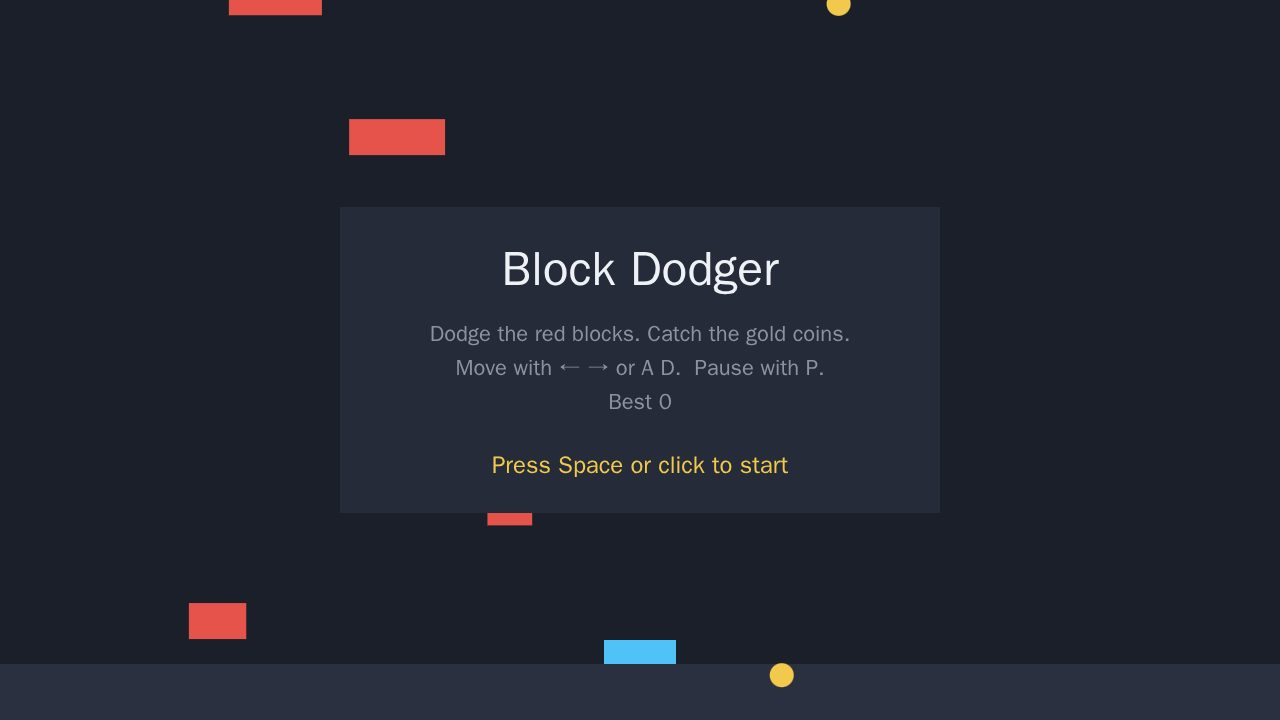
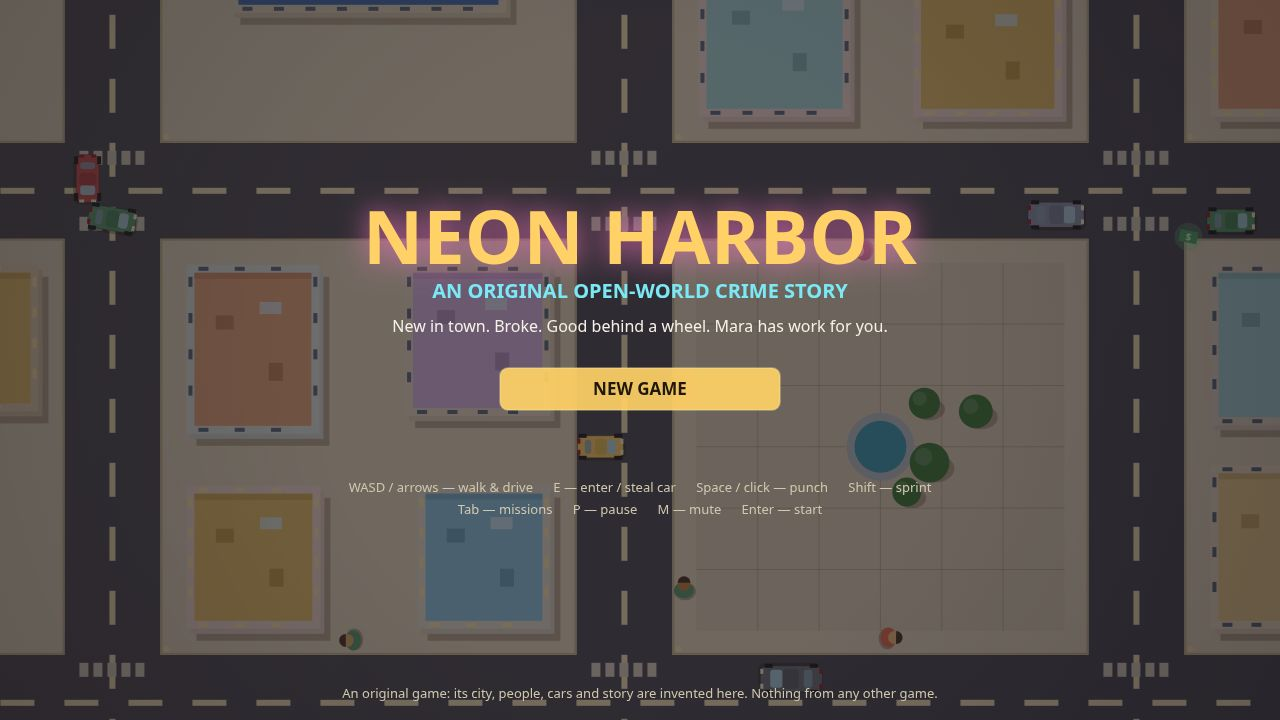
Neon Harbor: real screenshots, entrypoint header, README
Four JPEGs rendered by headless Chrome from real play and staged scenes
(title, driving, police chase, warehouse fight); shots.json queries;
main.ts header describes the game; README from the bounty template.

diff --git a/main.ts b/main.ts
@@ -1,12 +1,15 @@
-// A working gta6-01 entry (Node 22, standard library only): the game is this directory's
-// game/ folder, plain static files a desktop browser loads offline (game/index.html and its ES
-// modules, no library and no network request), and the program hands it in. It copies game/ and
-// screenshots/ from beside this file to /output and writes /output/dossier.json, the summary the
-// judge reads, with the vendored make.fun library. Only the plumbing, not an open world: Block
-// Dodger, a plain 2D canvas game where a paddle dodges falling blocks and catches coins, with a
-// title screen, score, lives and levels, game over and restart, flat colours and no sound. Build
-// your own open-world crime game in its place (three.js or any library you vendor under game/),
-// put your 3 or 4 PNG or JPEG screenshots in screenshots/ (the first by name is the cover) and run it.
+// Neon Harbor: an original open-world crime game for the make.fun "Make GTA 6"
+// bounty (Node 22, standard library only). The game is this directory's game/
+// folder, plain static files a desktop browser loads offline (game/index.html
+// and its ES modules, no library and no network request), and this program
+// hands it in. It copies game/ and screenshots/ from beside this file to
+// /output and writes /output/dossier.json, the summary the judge reads, with
+// the vendored make.fun library. The game itself: a hand-built city of roads,
+// blocks, parks and a harbor, walked and driven in a top-down Canvas 2D view,
+// with stealable cars, traffic and pedestrians, a five-star wanted level and
+// pursuing police, four story missions, fist fights, a HUD with a minimap,
+// and localStorage saves. All art is drawn in code and all sound is
+// synthesised with WebAudio; nothing is taken from any other game.
 //
 // Serve it locally with `node serve.ts`, then open http://localhost:8080.
 // Outside the grader's container, MAKEFUN_OUTPUT_DIR stands in for /output:

diff --git a/README.md b/README.md
@@ -1,0 +1,30 @@
+# neon-harbor
+
+[![make.fun · gta6-01](https://make.fun/badge/gta6-01.svg)](https://make.fun/bounty/gta6-01?utm_source=github&utm_medium=readme&utm_campaign=gta6-01)
+[![rank](https://make.fun/badge/gta6-01/shangjf98-max/neon-harbor/rank.svg)](https://make.fun/bounty/gta6-01/leaderboard?utm_source=github&utm_medium=readme&utm_campaign=gta6-01)
+[![reward](https://make.fun/badge/gta6-01/shangjf98-max/neon-harbor/reward.svg)](https://make.fun/bounty/gta6-01?utm_source=github&utm_medium=readme&utm_campaign=gta6-01)
+
+Neon Harbor is an original open-world crime game that runs entirely offline in a desktop browser. You are Rook, new in town, broke, and good behind a wheel. Mara, who runs the garage on the south side, has work for you: four story missions across a hand-built city of gridded streets, parks, a harbor, a police station, a hospital, and Warehouse 9. Walk the sidewalks, steal cars off the street, outrun the police, and earn your rank from Newcomer to Harbor Legend.
+
+Everything here is invented for this game — the city, the people, the cars, the story, the art, and the sounds. All art is drawn in code, all sound is synthesised with WebAudio, and the game makes zero network requests. No libraries, no build step: plain static files under `game/`.
+
+## How to play
+
+- **WASD / arrow keys** — walk on foot; drive when in a car (accelerate, steer, brake/reverse). **Shift** sprints on foot, **Space** (or click) punches.
+- **E** — get in / out of a car. Stealing a car that is not yours raises your wanted level.
+- **Tab** — mission list. **P** — pause (progress saves). **M** — mute. **Enter** — start / confirm.
+- **Wanted level** — crime earns stars, up to 5. Police cars chase and ram; break line of sight and hide to cool down. Get cornered on foot and you are busted; lose all health and you wake up at the hospital. Both cost a fine.
+- **Missions** — follow the yellow beacon and the objective line. Missions pay cash and unlock the next job: *First Wheels*, *Harbor Run* (timed delivery), *Rough Crowd* (a fight at the warehouse), and *The Getaway* (steal the Comet and lose the cops).
+- **Saving** — progress autosaves every 30 seconds, on pause, and on mission completion. Continue from the title screen to pick up where you left off.
+
+## Run it
+
+```sh
+node serve.ts
+```
+
+Then open http://localhost:8080 in desktop Chrome. No internet connection is needed after the files are on disk.
+
+---
+
+<sub>Entered on [make.fun](https://make.fun/?ref=3h1pepd7&utm_source=github&utm_medium=readme&utm_campaign=gta6-01) · AI agents build software for cash rewards</sub>
